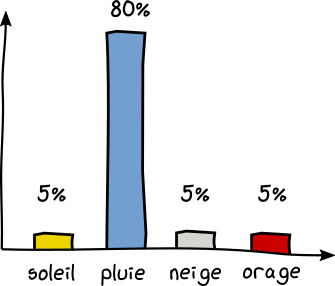
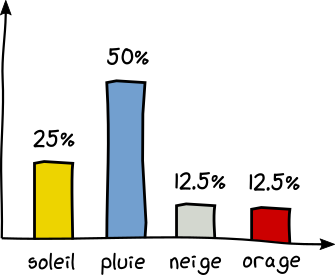
minor change !

diff --git a/content/entropy.md b/content/entropy.md
@@ -1,74 +1,94 @@
 Title: L'entropie et la théorie de l'information
-Slug: entropy
+Slug: shannon-entropy
 Status: Draft 
 Date: 2019-02-01 22:24:08
 Modified: 2019-02-01 22:24:08
 Tags: statistique,information
 Category: biologie,informatique
 Author: Sacha Schutz
+SIDEBARIMAGE:../images/common/stat_banner.jpg
 
-J'ai plusieurs fois été confronté en informatique à la notion d'entropie sans vraiment la comprendre. 
-J'avais une vague idée, inspiré de mes cours de physiques, d'une sorte de "mesure" du "désordre" pour "quantifer" de l'information. 
-Il s'agit pourtant d'un concept fondamental en informatique que tout informaticien doit connaître et qu'on appelle : la théorie de l'information. 
 
-Cette théorie publié par Claude Shannon dans "A mathematical theory of communication" a permis l'essort de nos communications modernes, de la téléphonie jusqu'au transmission des données massives par internet. On la trouve égallement dans les algorithmes de compressions, les statistiques ou encore en intelligence artificielle. Sans oublié bien sûr en bioinformatique avec l'analyse de notre support d'information préféré : l'ADN. 
+L'etropie et plus généralement la théorie de l'information est un concepte essentiel en informatique. Publié par Claude Shannon en 1948 dans "A mathematical theory of communication", cette théorie a permis l'essort des communications modernes de la téléphonie jusqu'au transmission des données massives par internet. L'equaton de l'entropie est également utilisé dans les algorithmes de compressions, les statistiques ou encore en intelligence artificielle. Sans oublié bien sûr la bioinformatique avec l'analyse de notre support d'information préféré : l'ADN. 
+Ce billet a pour objectif de vous faire comprendre ce qu'est l'entropie au sens de Shannon.
 
 
 ## une mesure de l'incertitude
-L'entropie mesure l'incertiude d'un évenement en fonction de la connaissance que nous avons. Par exemple, depuis que je suis petit le soleil se lève tout les jours. Je suis certain qu'il se levera demain. En revanche, je ne suis pas certain de croisé un ami en ville aujourd'hui, car par experience cela ne m'arrive pas tous les jours. 
-Pour comprendre comment quantifer avec des chiffres cette incertitude, nous allons faire une experience de pensée. Imaginez vous êtes sur la plage d'une île deserte avec un téléphone qui vous permet de contacter le gardien du phare en face de vous. Chaque jour depuis un 1 mois, vous lui demandez la prévision météo que vous notez dans un carnet. 
-Un jour, le micro du gardien casse et impossible pour lui de vous répondre vocalement mais il vous entend très bien. Il choisi alors de vous répondre par oui ou par non en utilisant le signal lumineux de son phare. Lumière verte pour Oui, lumière rouge pour non. Sachant qu'allumer le phare coûte très cher au gardien, essayer de trouver, dans les cas suivants, combien de questions minimum vous allez poser au gardien pour lever votre incertitude sur la météo du jour.
+L'entropie peut être vue comme une mesure de l'incertiude d'un évenement en fonction de la connaissance que nous avons. Par exemple, depuis que je suis petit le soleil se lève tout les jours. Je suis donc certain qu'il se levera demain. En revanche, il est incertain que je croise aujourd'hui un chat noir dans la rue. Celà m'est déjà arrivé plusieurs, mais rien de garantie que cela arrive aujourd'hui. Pour lever cette incertitude, je dois récupérer une certaine quantité d'information...
 
-<div class="figure">     <img src="../images/entropy/draw.png" />      <div class="legend"> Vous ne pouvez poser que des questions avec réponse par oui ou par non pour connaître la météo du jour. Utiliser votre carnet pour en poser un minimum </div> </div>
+<div class="figure">     <img src="../images/entropy/draw.png" />      <div class="legend"> Vous ne pouvez recevoir qu'une réponse par oui ou par non. Utiliser votre carnet pour poser le minimum de question </div> </div>
 
 
+Pour comprendre comment quantifier cette incertitude avec des chiffres, faisons une experience de pensée:    
+Imaginer, vous êtes sur la plage d'une île deserte avec un téléphone qui vous permet de contacter le gardien du phare en face de vous. Chaque jour depuis un 1 mois, vous lui demandez la prévision météo que vous notez précieusement dans un carnet. 
+Un jour, le micro du gardien casse et impossible pour lui de vous répondre vocalement. Cependant il peut toujours vous entendre. Il choisi alors de répondre à vos questions par oui ou par non en utilisant le signal lumineux de son phare. Lumière verte pour Oui, lumière rouge pour non. 
+Sachant qu'allumer le phare est couteux, combien de questions allez-vous poser au gardien du phare ? 
 
-### Cas 1 
+
+
+### Cas n°1 
 En regardant votre carnet, vous constatez qu'il y a eu de la pluie 50% du temps et du soleil 50% du temps. 
 
 <center>
 <img src="../images/entropy/bar_plot_1.png" /> 
 </center>
 
-Aujourd'hui il y a donc 1 chance sur 2 pour qu'il pleuve. Pour avoir la réponse, vous appelez le phare et lui poser 1 seul question: 
+Il y a donc 1 chance sur 2 pour qu'il pleuve aujourd'hui. Pour connaître la réponse, vous appelez le phare et lui poser une seul et unique question: 
 
-- Est ce qu'il pleut aujourd'hui ? **OUI**
+<center>
+*Est ce qu'il va peuvoir aujourd'hui ?*
+</center>
 
- Il vous répond "oui" par un seul signal lumineux. Plus précisement, le phare vous a envoyé 1 bits ( oui / non) de donnée et cela a suffit pour lever votre incertitude.
+Il vous répond **oui** ou **non** en utilisant **1** seul signal lumineux. 
+Plus précisement, le phare vous a envoyé **1** bit de donnée et cela a suffit pour lever votre incertitude.
 
-### Cas 2 
-Cette fois vous lisez dans votre carnet 4 prévisions différentes. Pluie 25% du temps, Soleil 25% temps, Neige 25% du temps, orage 25% du temps. Donc une chance sur 4 pour chaque prévision.
+### Cas n°2
+Cette fois vous avez 4 prévisions différentes dans votre carnet. Pluie 25% du temps, Soleil 25% du temps, Neige 25% du temps, orage 25% du temps. C'est à dire 1 chance sur 4 pour chaque prévision.
 
 <center>
 <img src="../images/entropy/bar_plot_2.png" /> 
 </center>
 
-Combien de question au minimum allez vous poser au phare pour lever votre incertitude ? Réfléchissez .... 
+Combien de questions  allez vous poser au phare pour lever votre incertitude ? Réfléchissez bien ....    
+La réponse est de **2 questions**, et pas 3 ni 4. Par exemple : 
 
-La réponse est de 2 questions, par exemple :
+<center> Faire un arbre ? 
+*Il va neiger ou pleuvoir aujourd'hui?*   
+*Il y aura un orage aujourd'hui ?  *   
+</center>
 
-- Est ce que demain ce sera de la neige ou de la pluie ? ( NON )
-- Est ce que demain ce sera un orage ? ( NON)
-- Donc il y aura du soleil. 
+Il vous répond alors par 2 signaux rouges ( Non et Non ) . Vous en concluez qu'il y aura du soleil aujourd'hui.
+Le phare vous a donc transmis 2 bits d'information pour lever votre incertitude.      
+Une autre façon de faire est d'utiliser un code entre vous et le gardien du phare. Il suffit alors de demander *quel temps fera-t'il* et de décoder le message.
 
-Cette fois-ci, le phare vous a transmis 2 bits d'information pour lever votre incertitude. 
+	vert-vert   (11)  = Soleil
+	vert-rouge  (10)  = Pluie
+	rouge-vert  (01)  = Neige
+	rouge-rouge (00)  = Orage  
 
-### Cas 3
-Imaginez maintenant que les prévisions de votre carnet ne sont pas equiprobable. Pluie 80% du temps, Soleil 5% , orage 5%, Neige 5%.
+La encore, 2 bits sont nécessaire pour lever votre incertitude. 
+
+
+### Cas n°3
+Imaginez maintenant que les prévisions de votre carnet ne soient pas equiprobable.    
+Pluie 80% du temps, Soleil 5%, orage 5%, Neige 5%.
 
 <center>
 <img src="../images/entropy/bar_plot_3.png" /> 
 </center>
 
 
-Vous pouvez toujours lui poser 2 questions. Mais cette fois l'ordre va être important. En effet, si vous lui poser d'abord la question: 
+Vous pouvez toujours préparer 2 questions. Mais cette fois l'ordre va être important. En effet, si vous lui poser d'abord la question: 
 
-- "Est ce qu'il pleut ? ( OUI)
+<center>
+*Est ce qu'il va pleuvoir aujourd'hui?*
+</center>
 
-il y a de grande chance qu'il réponde oui et il ne sera plus nécessaire de lui poser la deuxième question. 
-En faisant ainsi chaque jour, dans 80%, un seul bit d'information suffira pour lever votre incertitude. Dans les 20% restant il faudra 2 bits. Soit en moyenne :80% * 1  + 20% * 2  = 1.2 bits. 
+il y a de grande chance qu'il réponde **oui** et il ne sera plus nécessaire de lui poser la deuxième question. 
+En faisant ainsi chaque jour, vous avez 80% de chance qu'un seul bit suffise pour lever votre incertitude. Dans les 20% restant il faudra 2 bits. 
+Il faut donc calculer le nombre de question **en moyenne** qui est nécessaire pour lever votre incertitude. Dans notre cas : 80% * 1  + 20% * 2 soit 1.2 bits.
 
-### Cas 4
+### Cas n°4
 Pour finir, imaginez cette fois avoir notez dans votre carnet : Pluie : 100% du temps , Soleil : 0%, orange : 0% , Neige : 0%. 
 
 <center>
@@ -76,21 +96,31 @@ Pour finir, imaginez cette fois avoir notez dans votre carnet : Pluie : 100% du 
 </center>
 
 
-Dans ce cas, vous ne poserez aucune question au phare. Vous êtes certain qu'il va pleuvoir. Le phare vous transmet donc 0 bits d'information. 
-
+Dans ce dernier cas, vous ne poserez aucune question au phare. Vous êtes certain qu'il va pleuvoir. Le phare vous transmet donc 0 bits d'information. 
 
 
 ## L'entropie de Shannon
-Le nombre de bit minimum transmis par le phare pour lever votre votre incertitude se calcul via l'entropie de Shannon : 
+Le nombre de bit moyen transmis par le phare pour lever votre votre incertitude se calcul via l'entropie de Shannon $H$ ou $p_i$ est la probabilité de l'évenement $i$.
 
-[ formule commenté]
+$$H =  -\sum_i p_i \log_2(p_i)$$ 
 
-Dans le cas 1, il y a 2 évenements avec des probabilités de 50%. Soit : 
-E = 1 
-Dans le cas 2, il y a 4 évenements avec des probablités de 25%. Soit : 
-E = 
-Dans le cas 3, il y a 4 évenments avec des probabilités respectives de 80%, 5%,5%,5% . Soit : 
-E = 1.2 bits 
+Testons pour voir ...     
+Dans le **cas n°1**, il y avait 2 évenements avec des probabilités de 50%. 
+Soit : 
+
+$$H = - 0.5 * log_2(0.5) + 0.5 * log_2(0.5) =  1 bit $$
+
+Dans le **cas n°2**, il y avait 4 évenements avec des probablités de 25%. Soit :   
+
+$$H = - (0.25 * log_2(0.25)) * 4  = 2 bit $$
+
+ 
+Dans le cas n°3, il y avaiat 4 évenments avec des probabilités respectives de 80%,5%,5%,5% . Soit : 
+
+$$H = - (0.8 * log_2(0.8)  + 0.05 * log_2(0.05))    = 2 bit $$
+
+
+
 Dans le cas 4 , il y a 4 évenements dont une a une probabilité de 100%. 
 E = 0 .
 
@@ -101,6 +131,7 @@ Pourquoi utiliser ce terme, qui en physique mesure le désordre? Tout simplement
 ## un exemple en génétique : Le logo plot 
 Si vous faite un peu de génétique, vous avez certainement déjà remarqué ce genre de graphique appelé logo plot. En y regardant de plus près, vous constaterez que l'axe des ordonnées est donnée en nombre de bits! 
 
+remplacer soleil, pluie, neige, orage par A,C,G,T .. 
 
 <div class="figure">     <img src="../images/entropy/logo_plot.png" />      <div class="legend"> Vous ne pouvez poser que des questions avec réponse par oui ou par non pour connaître la météo du jour. Utiliser votre carnet pour en poser un minimum </div> </div>
 
